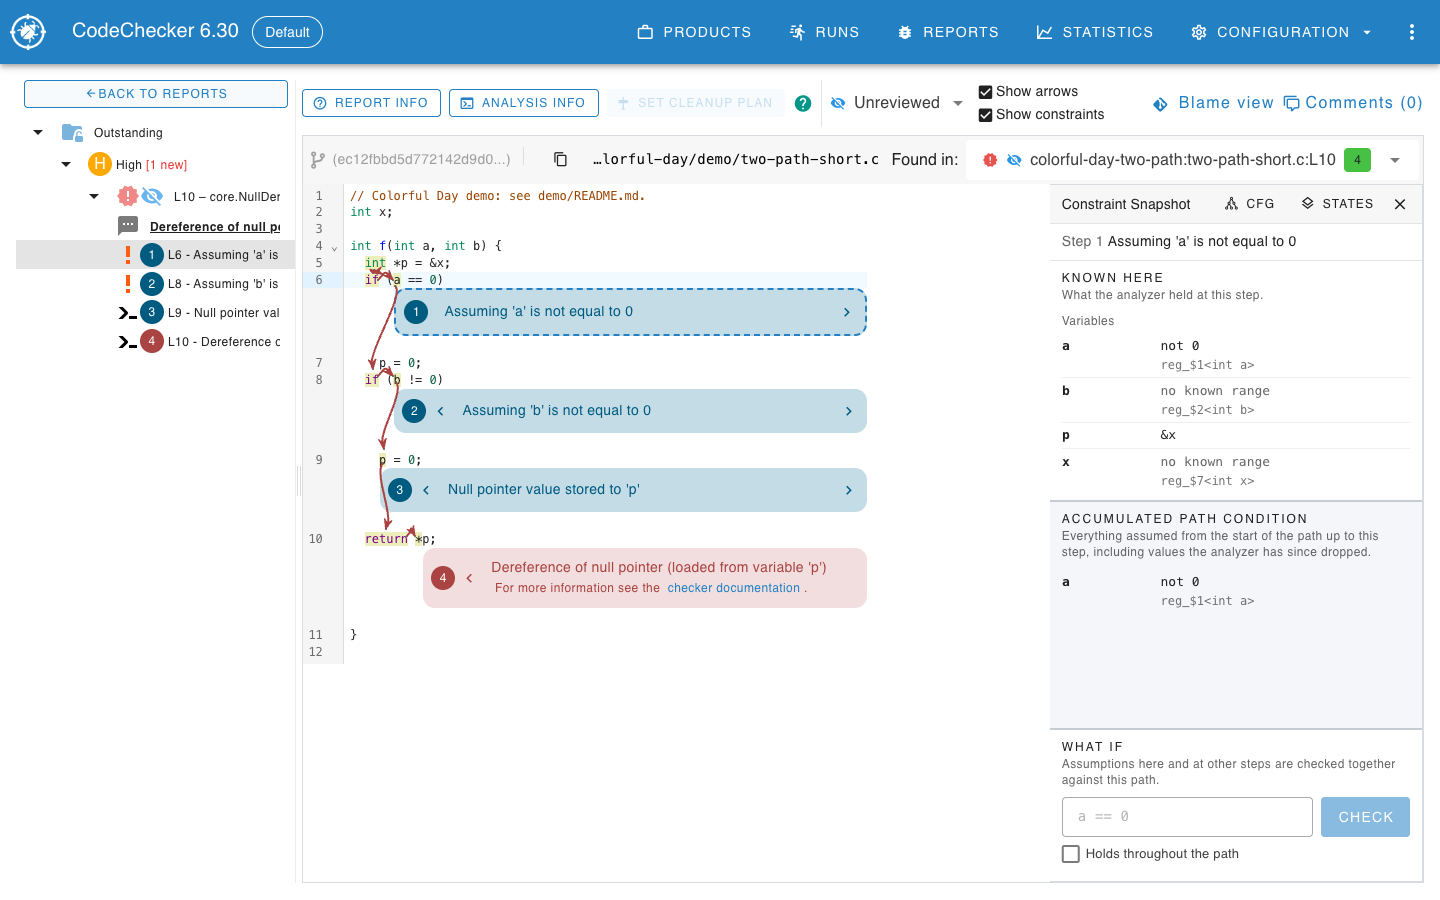
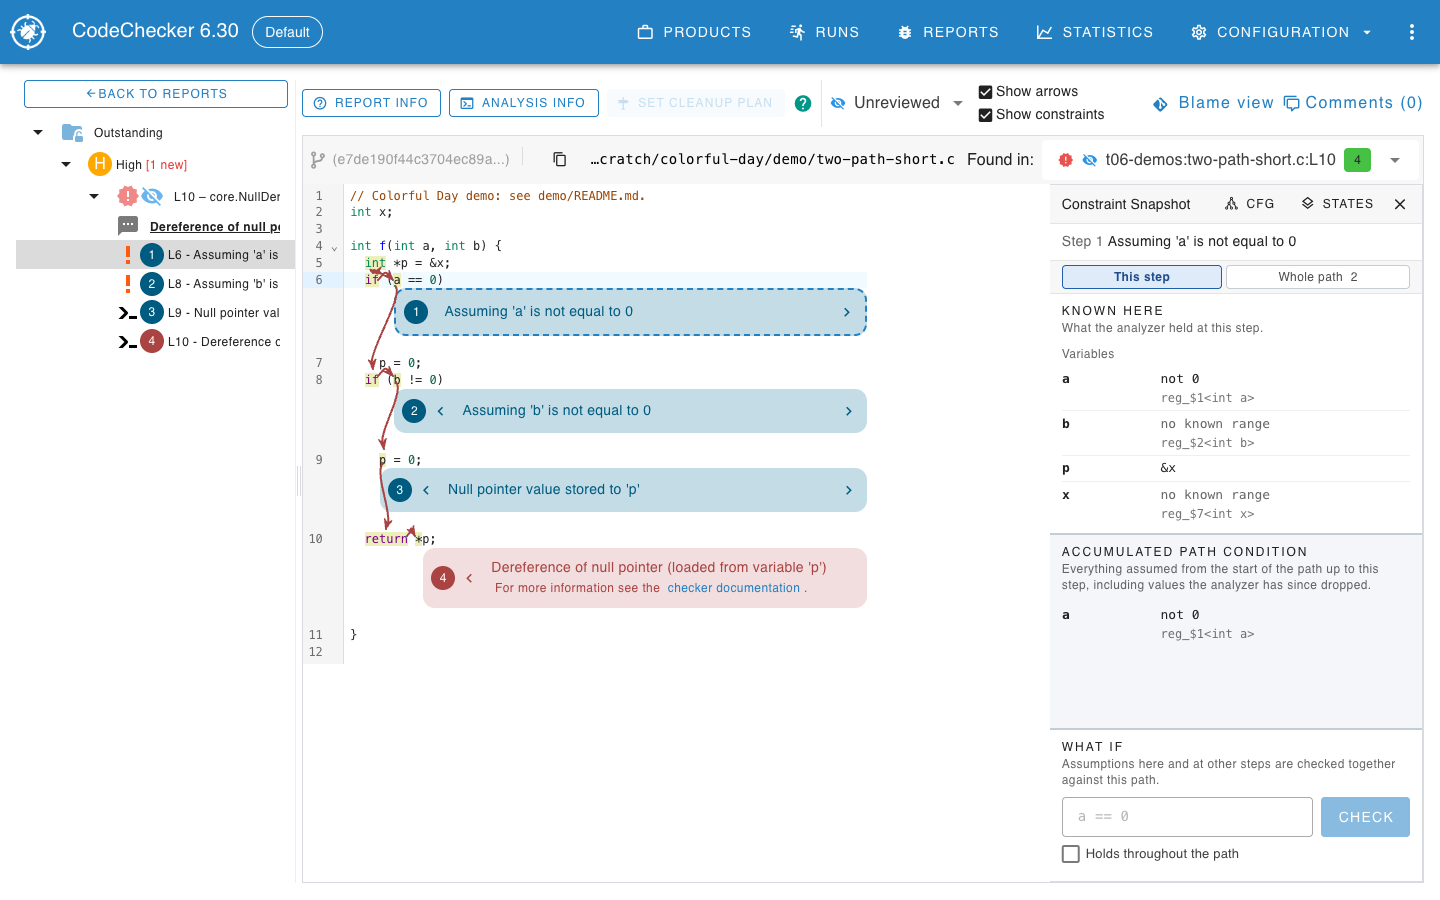
[docs] Describe the Whole path view of the constraint panel

Changed region(s): [[0.7188, 0.28, 0.9688, 0.7156], [0.4062, 0.1556, 0.8125, 0.1867], [0.25, 0.1556, 0.3438, 0.1867]]

diff --git a/docs/web/constraints.md b/docs/web/constraints.md
@@ -12,6 +12,7 @@ It needs data that Clang records only when asked to, and its format may change b
 * [Storing the reports](#storing-the-reports)
 * [Show constraints](#show-constraints)
 * [Reading the Constraint Snapshot panel](#reading-the-constraint-snapshot-panel)
+  * [This path requires](#this-path-requires)
 * [Selecting a step](#selecting-a-step)
 * [What if](#what-if)
   * [Syntax](#syntax)
@@ -79,6 +80,7 @@ With the checkbox ticked, the source lines that carry a bug path step are marked
 Selecting a step opens the **Constraint Snapshot** panel beside the source code.
 Its title line gives the step, such as `Step 1 Assuming 'a' is not equal to 0`.
 The panel can be closed with the cross in its header.
+Two buttons under the title line choose what the panel shows: **This step**, described next, and **Whole path**, which is [This path requires](#this-path-requires).
 
 **Known here** is what the analyzer held at that step:
 
@@ -175,6 +177,28 @@ When the width or signedness of the type cannot be told for certain, as with an 
 Any other range is printed that way too.
 Hovering over a range that is shown in words shows the analyzer's own range.
 
+### This path requires
+
+**Whole path** lists everything the bug path assumes, from its first step to its last, so that you can ask which of it is unrealistic and go to the code that assumed it.
+It does not change with the selected step, and it has the same rows as the accumulated path condition of the last step, which is why the two are never on screen together.
+The list reads the trace's symbol table to group the rows, entry inputs first:
+
+* **Entry inputs** are what the function was called with: its parameters, globals and the fields of `this`, and what they point to, such as `SuperLoc` or `n`.
+  A compound value made only of entry inputs, such as `m + n`, is listed here too.
+* **Call results** are values that calls the analyzer did not see inside returned.
+* **Replaced values** are memory that a call or a loop may have changed, and the parts of it.
+* **Other** is everything else: a value whose origin the analyzer did not say, memory behind a call's result, and an expression that mixes origins.
+
+A group with no rows is left out, and a report whose trace has no symbol table shows one list with no groups.
+A row is named and labelled as in the accumulated path condition, and has the **dropped** tag when the analyzer no longer knows the symbol's range at the last step.
+Under it, a line says where the analyzer last assumed it: "last set at" and a link to the step that shows the row as it is at the end, then the function of that step.
+Clicking the link selects the step, which shows its code.
+Some assumptions have a node of their own, between two steps; the line then says "last set before" the first step that shows it, so the code to read is just ahead of that step.
+When the step is an assumption the bug path has no event for, the line says "assumed with no event at" and the link is to that control step.
+A path with no constraints shows "This path has no constraints on it."
+
+![This path requires, on a report of tmux](images/constraints_requires.png)
+
 ## Selecting a step
 
 With **Show constraints** ticked:
@@ -187,6 +211,9 @@ With **Show constraints** ticked:
   A line is visited more than once by a loop or by a function that is called from several places.
   Each entry of the list shows the step, and the values of the variables that differ between the entries, so that you can tell the visits apart.
   Steps that would show the same panel count as one entry.
+
+A control flow step, which the bug path draws as an arrow between lines and has no event of its own, is named by the event before it: "Edge after Step 2", or "Edge before Step 1" when no event comes first.
+Verdicts and links use that name.
 
 At the foot of the list, **Choose in the control flow graph** and **Choose by analyzer state** select the step in the views described in [Control flow graph and analyzer states](#control-flow-graph-and-analyzer-states).
 
